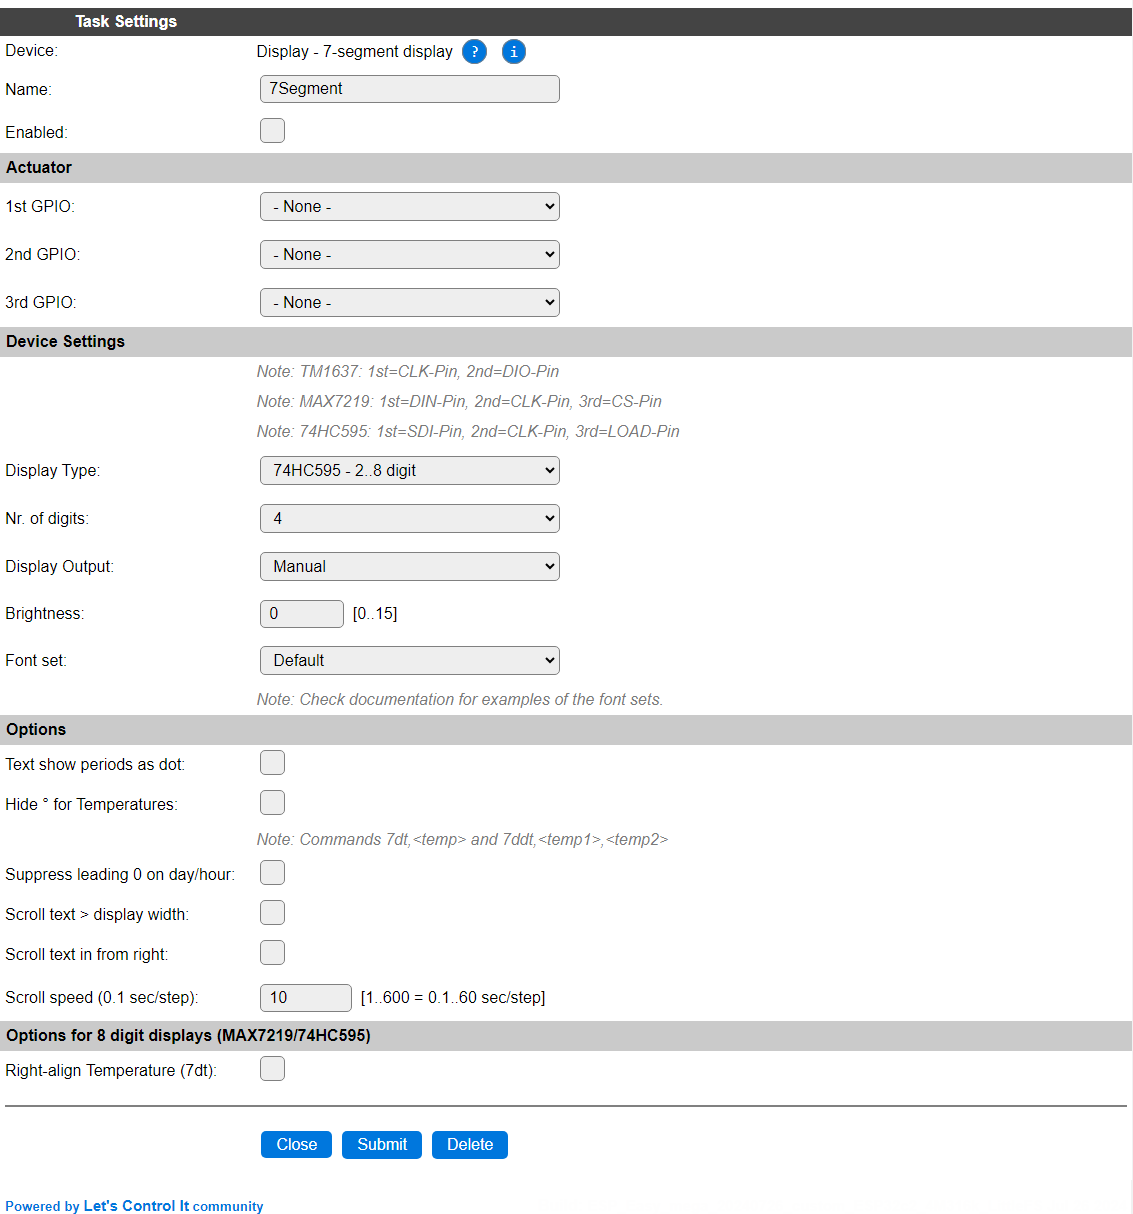
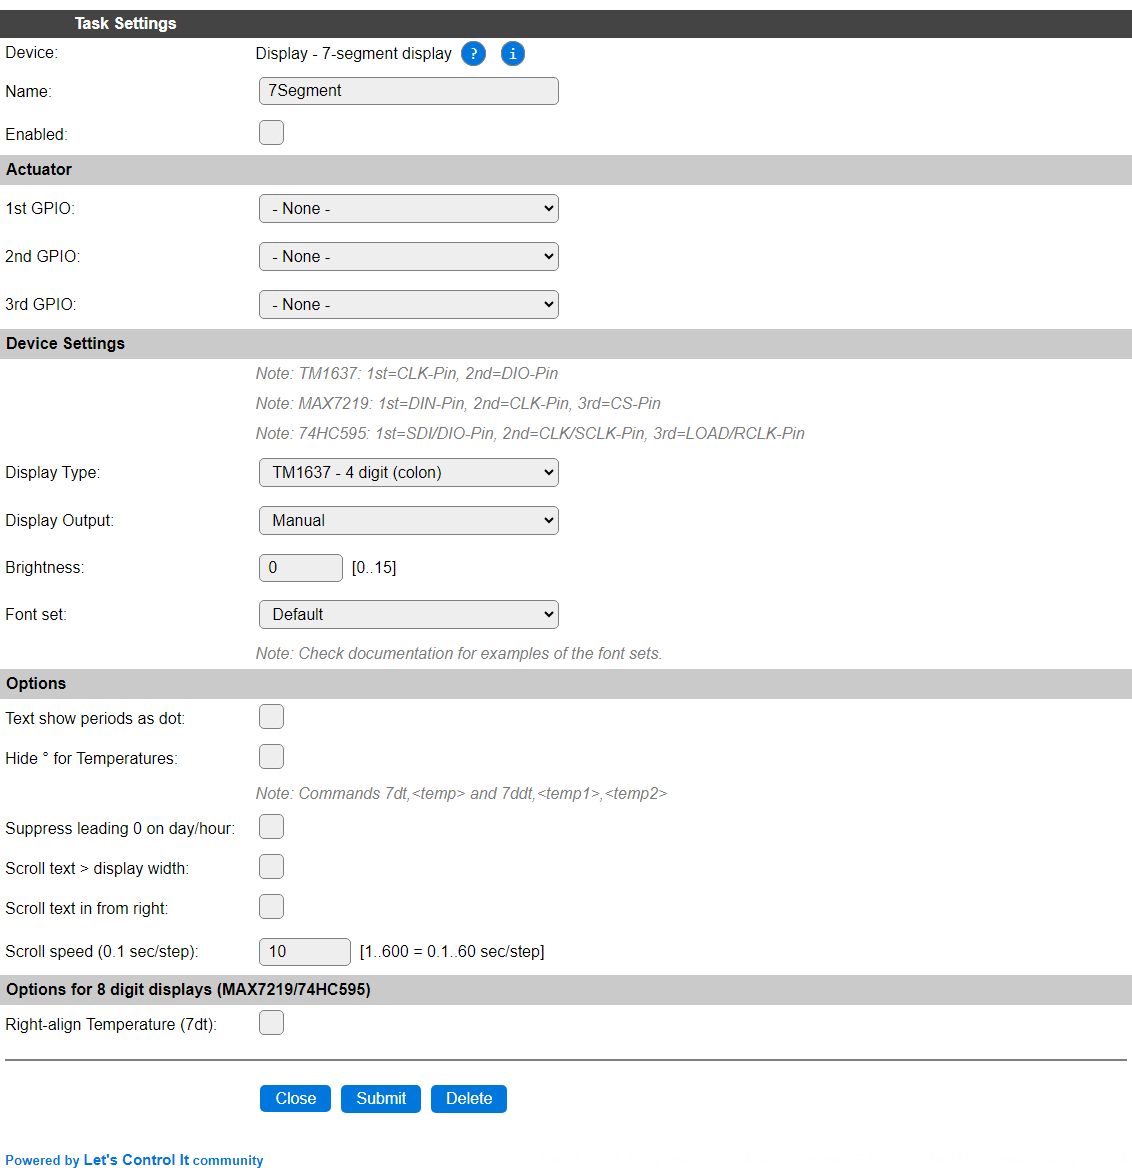
[P073] Update documentation

Changed region(s): [[0.0, 0.0, 1.0, 0.9555], [0.0, 0.9863, 0.2473, 1.0]]

diff --git a/docs/source/Plugin/P073.rst b/docs/source/Plugin/P073.rst
@@ -30,11 +30,11 @@ Depending on the available space in the release, some features may not be availa
 
 Currently 3 fonts are available for presenting text on the display, where the character shapes are somewhat different, and a choice can be made on what font is the most appropriate for the intended purpose. The numbers in the fonts are all equal.
 
-When text to be displayed can't fit on the width of the display (2, 3, 4, 5, 6 or 8 digits), scrolling text can be used so longer messages are shown like a ticker-tape display.
+When text to be displayed can't fit on the width of the display (2, 3, 4, 5, 6, 7 or 8 digits), scrolling text can be used so longer messages are shown like a ticker-tape display. Scrolling is always from right to left, and optionally starts with an empty display, so text can be read as it scrolls in.
 
 Optionally, periods in text can be shown on the dots of the display, when available (not all 7 segment display have dots).
 
-For temperature display commands, ``7dt,<temp>`` and ``7ddt,<temp1>,<temp2>``, the degree symbol after the temperature can be turned off so there's room for 1 more digit of temperature on the display. The degree symbol is turned off for 2 and 3 digit displays.
+For temperature display commands, ``7dt,<temp>`` and ``7ddt,<temp1>,<temp2>``, the degree symbol after the temperature can be turned off so there's room for 1 more digit of temperature on the display. The degree symbol is always turned off for 2 and 3 digit displays.
 
 Configuration
 ^^^^^^^^^^^^^^
@@ -47,7 +47,7 @@ Configuration
 
 * **1st/2nd/3rd GPIO**: How the display is connected can be configured here. Description per module type is in the Notes below the GPIO fields.
 
-For the MAX7219 and 74HC595 displays, the DIN-Pin and CLK-Pin can be shared when multiple displays are connected, but each display's CS-Pin must be connected to a unique GPIO of the unit.
+For the MAX7219 and 74HC595 displays, the DIN/SDI/DIO-Pin and (S)CLK-Pin can be shared when multiple displays are connected, but each display's CS/LOAD/RCLK-Pin must be connected to a unique GPIO of the unit.
 
 For TM1637 display possibly the DIN-Pin GPIO's can be shared, but that's untested, so it is more safe to use separate GPIOs for each display.
 
@@ -59,21 +59,25 @@ For TM1637 display possibly the DIN-Pin GPIO's can be shared, but that's unteste
 
 .. image:: P073_NrOfDigitsOptions.png
 
-* *2*: 2 digits, the smallest available display
+* *2*: 2 digits, the smallest supported display
 
 * *2+2*: 2 displays using 2 digits connected sequentially (SDO of first display to SDI of second display), making a total of 4 digits.
 
 * *3*: 3 digits. The 2 and 3 digits displays use 2 or 3 74HC505 chips sequentially, to control a single digit per chip.
 
-* *4*: 4 digits. The 4, 6 and 8 digit display use a multiplexed setup, using 2 74HC595 chips per board, 1 controlling the digit leds, and 1 controlling the digit selected. These multiplexed displays need to be refreshed continuously to properly display the intended data, causing some extra load on the ESP.
+* *4 multiplexed*: 4 digits. The 4, 6 and 8 digit display use a multiplexed setup, using 2 74HC595 chips per board, 1 controlling the digit leds, and 1 controlling the digit selected. These multiplexed displays need to be refreshed continuously to properly display the intended data, causing some extra load on the ESP.
 
 * *2+3 / 3+2*: 2 displays with 2 and 3 digits or 3 and 2 digits connected sequentially (SDO to SDI), effectively giving a usable display of 5 digits.
 
-* *6*: 6 digits, multiplexed display.
+* *6 multiplexed*: 6 digits, multiplexed display.
 
 * *3+3*: 6 digits, 2 boards with 3 digits connected sequentially (SDO to SDI).
 
-* *8*: 8 digits, multiplexed display. This display also supports the ``7ddt`` command for displaying dual temperatures.
+* *3+4 / 4+3*: 7 digits, 2 boards with 3 and 4 digits connected sequentially (SDO to SDI).
+
+* *4+4*: 8 digits, 2 boards with 4 digits connected sequentially (SDO to SDI).
+
+* *8 multiplexed*: 8 digits, multiplexed display. This display, and the 4+4 combination, also supports the ``7ddt`` command for displaying dual temperatures.
 
 
 * **Display Output**: Here the type of output can be selected:
@@ -92,11 +96,11 @@ For TM1637 display possibly the DIN-Pin GPIO's can be shared, but that's unteste
 
 *Date*: Displays the current date.
 
-*NB: Clock and Date outputs assume the NTP option is enabled in Tools/Advanced.*
+*NB: Clock and Date outputs assume a time-source is available, f.e. the via NTP or External Time Source settings in Tools/Advanced, by connecting a GPS module, or via the ESPEasy P2P network.*
 
 The Clock and Date outputs are updated every second, and the blinking selections are 1 second on then 1 second off.
 
-Clock and Date formats are optimized for each Display Type to fill the display efficiently.
+Clock and Date formats are optimized for each Display Type to fill the display efficiently, but won't properly fit on the 2 and 3 digit displays.
 
 * **Brightness**: The brightness level of the display can be set here. 0 is 'Default' brightness, 1..15 from low to high brightness. Displays using 74HC595 ignore this **Brightness** setting!
 
